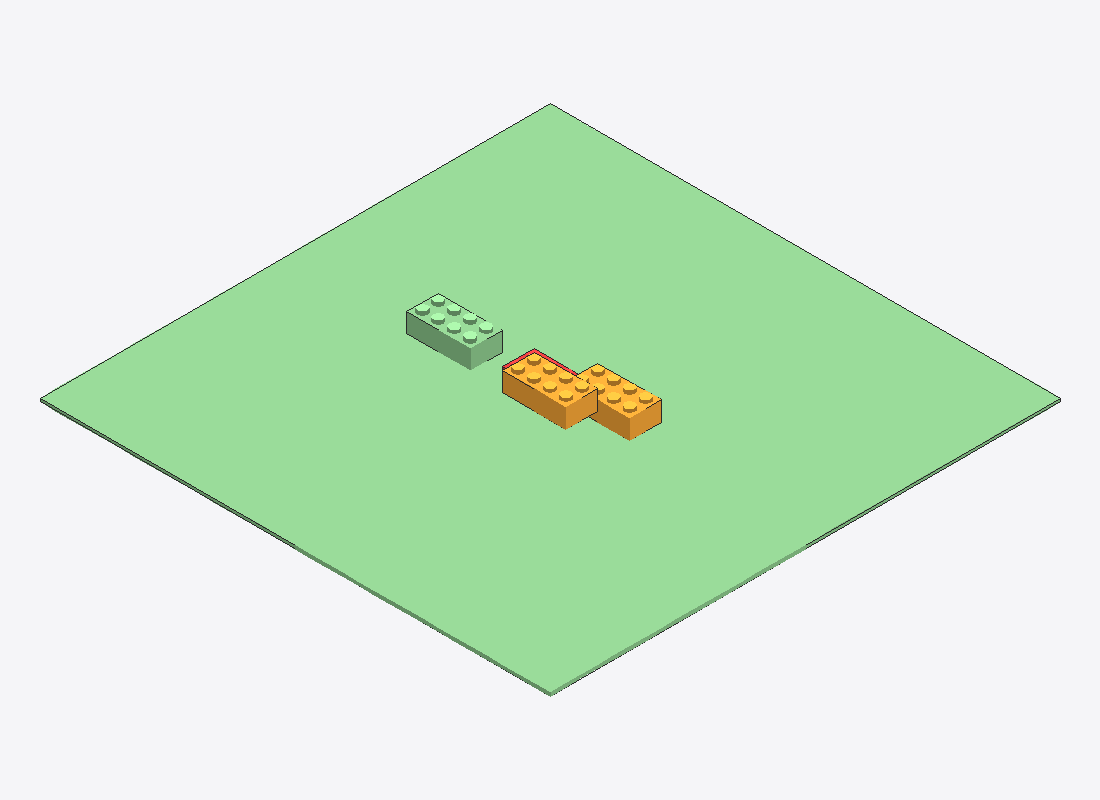
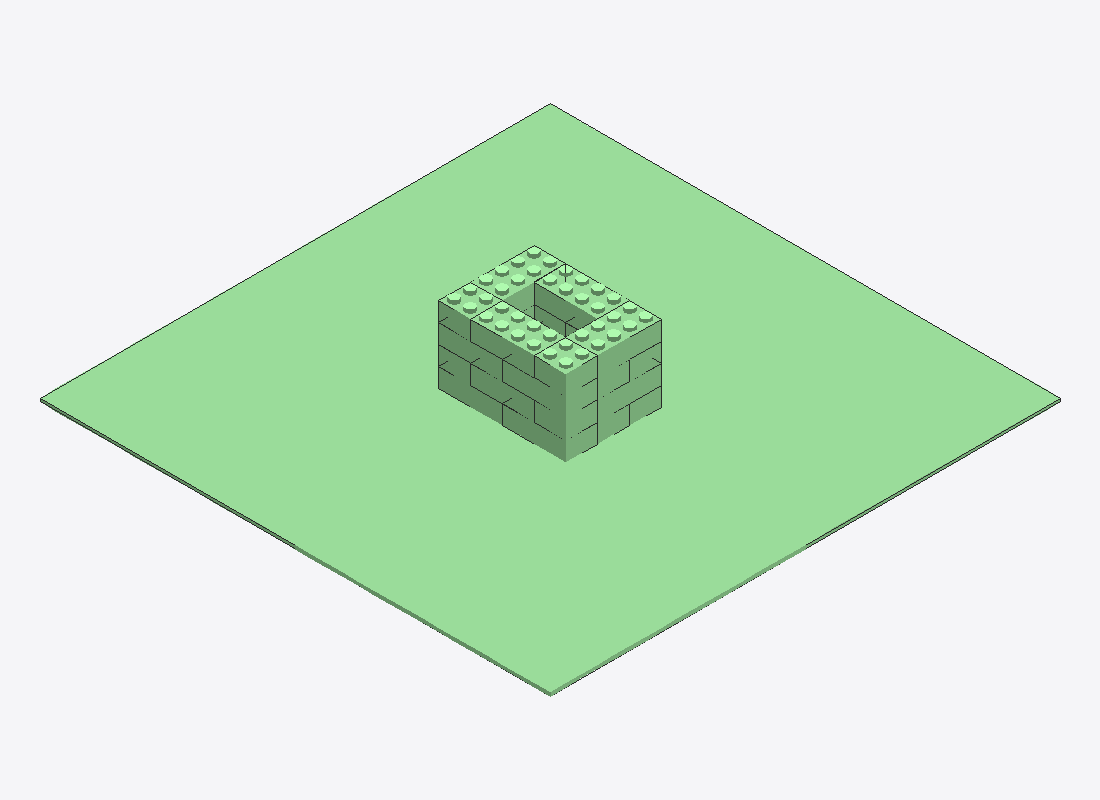
README: swap hero to colorful bonded room, regenerate clean validation render
Hero is now the instance-colored bonded room — shows the running-bond stagger
and 2x2 corner columns at a glance instead of the previous plain red room.
validation.png is now a clean all-green render of build_room (no overlap, no
floating); caption explains the color legend rather than narrating a broken
scene.

Changed region(s): [[0.3709, 0.3125, 0.6182, 0.5938]]

diff --git a/README.md b/README.md
@@ -2,7 +2,7 @@
 
 An [MCP](https://modelcontextprotocol.io) server that lets an LLM design **buildable** LEGO models by emitting validated LDraw files — not by clicking around in a CAD app.
 
-![A small bonded room on a baseplate, rendered by LegoMCP's built-in isometric renderer](docs/images/hero.png)
+![A colorful bonded room on a tan baseplate, each brick a distinct color to show the running-bond stagger and 2x2 corner columns](docs/images/bonded_room.png)
 
 Drop it into Claude Desktop, ask Claude *"build me a small red house on a tan baseplate,"* and the LLM gets ~50 semantic tools, 6 prompts, and 4 reference resources covering: real LDraw catalog (24,009 parts), buildability checks (no floating / no collisions / no overlaps), connection-aware bonding, builder mode for piece-by-piece assembly, persistent projects, autosave, inline render previews in the chat, and a debug toolkit (`render_validation`, `inspect_part`, `collision_detail`, `describe_errors`). The output is a real `.ldr` / `.mpd` file you can open in [BrickLink Studio](https://www.bricklink.com/v3/studio/download.page) or [LeoCAD](https://www.leocad.org/).
 
@@ -226,9 +226,9 @@ All four return `[markdown_preview, summary_dict, MCPImage]` — the human sees 
 | `render_validation(width=900, height=700)` | Color-codes each part by validation status: **green** = ok, **red** = collision, **orange** = floating, **purple** = unanchored, **yellow** = off-grid, **gray** = unknown part_id. The one-shot "where are my problems?" view. |
 | `view_latest_render()` | Re-show the most recent render without re-rendering. |
 
-![render_validation: green baseplate and grounded bricks, orange floating brick, and a red collision pair](docs/images/validation.png)
+![render_validation on a clean build: every part rendered green, indicating no collisions, no floating parts, and proper grid alignment](docs/images/validation.png)
 
-*`render_validation()` on a deliberately-broken scene: green baseplate + correctly-grounded bricks, the red 1-pixel sliver between the two yellow-orange bricks is a collision pair, the standalone orange brick on the right is floating.*
+*`render_validation()` on a clean `build_room`: every part is green — no collisions, nothing floating, nothing off-grid. When something is wrong, the offending parts switch color (**red** = collision, **orange** = floating, **purple** = unanchored, **yellow** = off-grid, **gray** = unknown part_id) so you can spot problems at a glance.*
 
 ### Persistence: checkpoints / projects / autosave
 